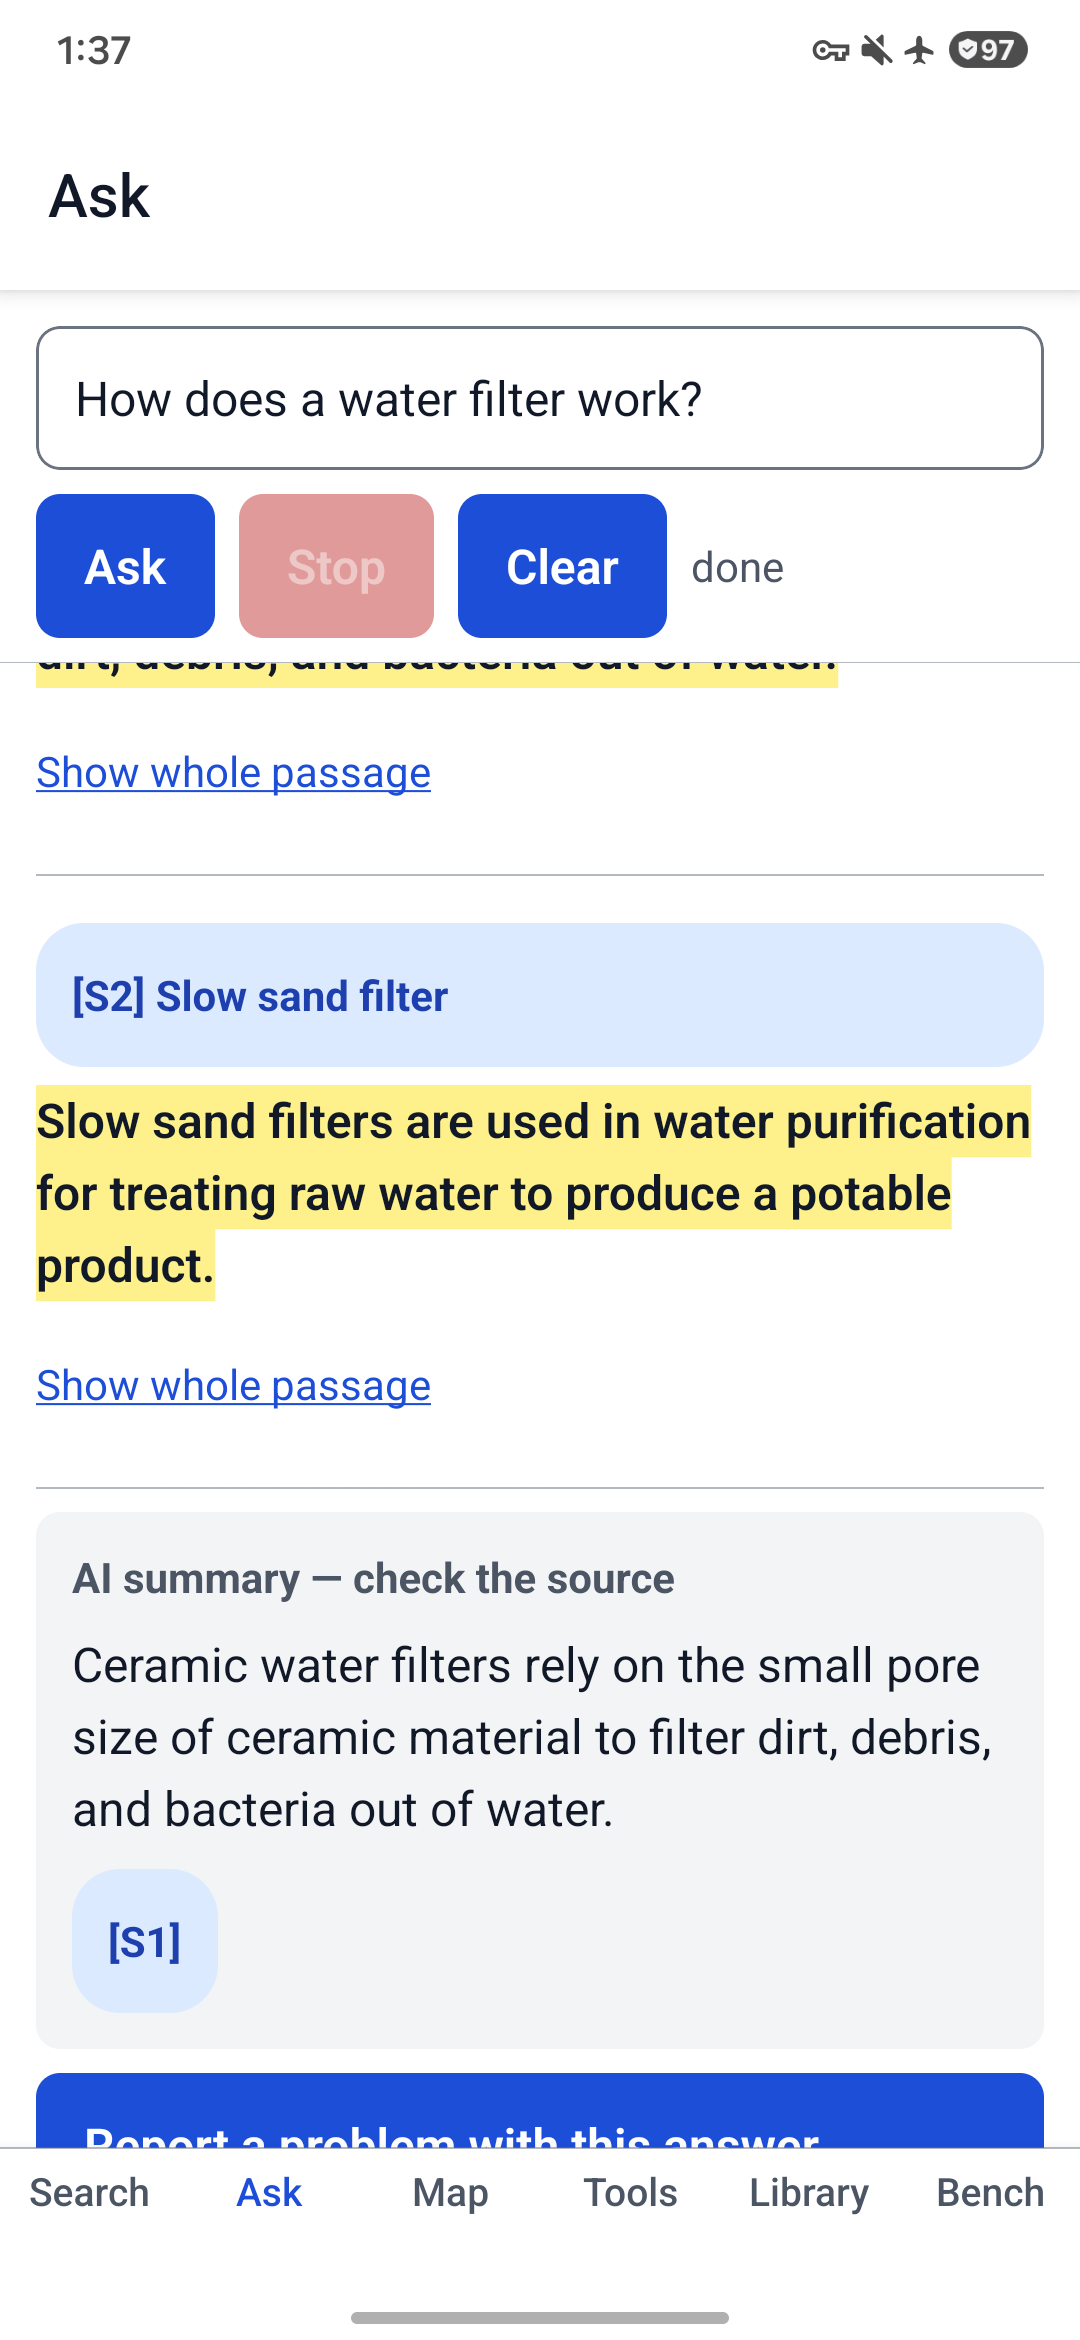
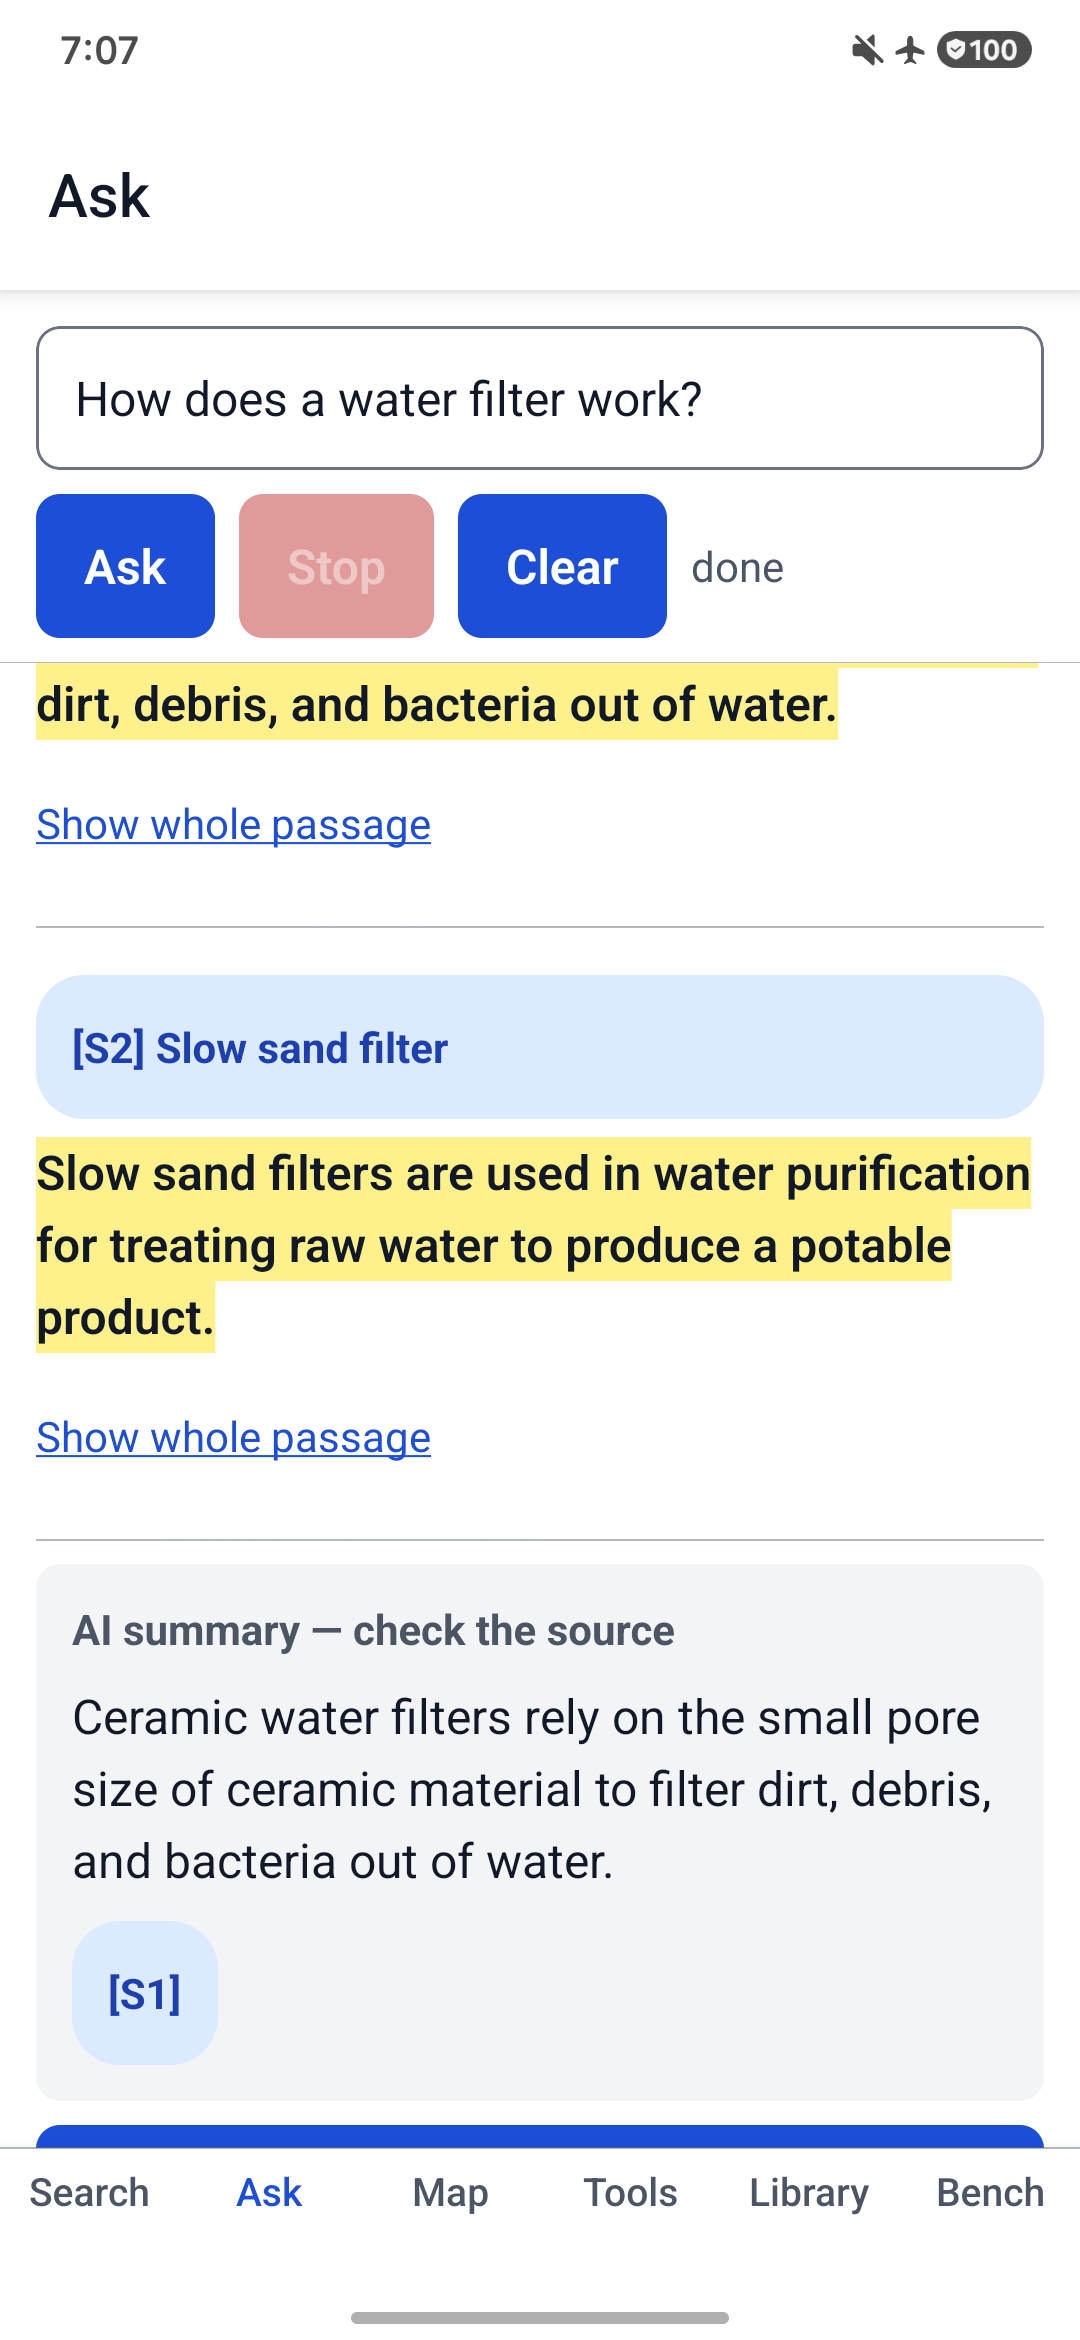
docs(store): part 3 closed — clean S23 Maestro 8/8, Ask screenshot without VPN
- store-readiness: clean run on 2026-10-16 (8/8, 0 blocked requests, 0 bytes,
  SMS 1, CHOOSER 1) and the two flow fixes; 4_ask_sources retaken with the
  phone's VPN off.
- PROGRESS.md: project status file.

diff --git a/docs/store-readiness.md b/docs/store-readiness.md
@@ -23,6 +23,7 @@ in airplane mode 8/8 (problem report CHOOSER intent 1, SMS hand-off 1, 0 bytes o
 and produces the same bytes as `android-repro` (§6); published builds use the JDK 21 toolchain
 (`docs/architecture.md`, "Android JDK"); the Ask store screenshot comes from the S23 with the model; every
 SKEPI device script takes a shared per-device lock (open items, §5). Verification at `36d712d`: `pnpm verify` 46/46; Rust `fmt`, `clippy -D warnings`, `test` (local and CI); `android-repro` and `fdroid-build` green with the same SHA-256 `36599399…0069` (run 38319568319). Maestro on the S23 (signed preview build, airplane mode, under the device lock): every one of the 8 flows passed on this build, but no single run was clean: run 1 7/8 (blackout) and blackout alone then green, run 2 6/8 (ask-t1, blackout); each failure screenshot shows the Selis app, which another session brought to the foreground on the shared phone while SKEPI held the lock. Both runs: 0 bytes over real interfaces, 0 blocked WebView requests, problem-report CHOOSER 1, SMS hand-off 1.
+**Clean run (2026-10-16, same preview build, flows at `794f997`):** Maestro on the S23 in airplane mode under the device lock, `run-e2e.ps1 -MockLocation`: 8/8 in one run, 0 blocked WebView requests, 0 bytes over real interfaces, SMS hand-off 1, problem-report CHOOSER 1. Two flow fixes on the way: the persisted T1-simulation switch, left on by the interrupted ask-t1 run of 2026-10-13, made ask-en wait for an automatic AI summary that T1 does not give (ask-en and store-screenshot-ask now turn it off first); ask-t1 could stop scrolling with "Summarise with AI" under the tab bar (now `centerElement`). Earlier runs that day were cut short by the phone dropping off USB (three times) and by a manual tap on the phone, not by app failures.
 
 Status legend: **ready** · **blocked** (a repo change is needed first) · **owner** (needs an owner
 decision or account action).
@@ -167,7 +168,7 @@ comparison and `llvm-objcopy`/`llvm-readelf` from NDK 27.3 (diffoscope is not av
 ## 5. Still to prepare
 
 - Graphics: `fastlane/metadata/android/en-US/images/icon.png` (512×512) and `featureGraphic.png`
-  (1024×500). **Phone screenshots: done** (`fastlane/metadata/android/en-US/images/phoneScreenshots/`: `1_home`, `2_search`, `3_article`, `5_map`, `6_tools` at 1080×2400 from `e2e/store-screenshots.yaml` on the `skepi-host` emulator (preview build installed from the AAB, airplane mode, demo-mode status bar); `4_ask_sources` at 1080×2340 from `e2e/store-screenshot-ask.yaml` on the S23 (release build, airplane mode, "How does a water filter work?": a Layer 1 source excerpt, then the labelled AI summary with its citation chip; Samsung ignores the demo-mode status bar, so the phone's own status icons show). Card titles show "Draft", no card steps anywhere.)
+  (1024×500). **Phone screenshots: done** (`fastlane/metadata/android/en-US/images/phoneScreenshots/`: `1_home`, `2_search`, `3_article`, `5_map`, `6_tools` at 1080×2400 from `e2e/store-screenshots.yaml` on the `skepi-host` emulator (preview build installed from the AAB, airplane mode, demo-mode status bar); `4_ask_sources` at 1080×2340 from `e2e/store-screenshot-ask.yaml` on the S23 (release build, airplane mode, "How does a water filter work?": a Layer 1 source excerpt, then the labelled AI summary with its citation chip; Samsung ignores the demo-mode status bar, so the phone's own status icons show; retaken 2026-10-16 with the phone's VPN off, so only the mute, airplane and battery icons show). Card titles show "Draft", no card steps anywhere.)
 - Privacy policy public URL (§2, Google Play; v1).
 - **AAB: done** (§2, Google Play).
 - A first test of the recipe on the F-Droid buildserver (§6).

diff --git a/PROGRESS.md b/PROGRESS.md
@@ -1,0 +1,10 @@
+**Current:** Store readiness (Android, F-Droid first) — part 3 done; no tag, release or fdroiddata request yet
+**Next step:** owner: decide on the tag/release and the fdroiddata merge request; graphics (icon 512×512, featureGraphic 1024×500) still open (`docs/store-readiness.md` §5)
+**Last session:** 2026-10-16 — clean Maestro 8/8 on the S23 (airplane mode, device lock), Ask store screenshot retaken with the VPN off; two E2E flow fixes (`794f997`)
+
+## Store readiness part 3 (closed 2026-10-16)
+
+- Done: `fdroid build` in CI gives the same bytes as `android-repro`; JDK 21 toolchain for published builds; per-device lock in every SKEPI device script; Ask store screenshot from the S23 with the model.
+- Verified: `pnpm verify` 46/46, Rust fmt/clippy/test, `android-repro` + `fdroid-build` same SHA-256 (at `36d712d`); Maestro on the S23 8/8 in one run (2026-10-16): 0 blocked WebView requests, 0 bytes over real interfaces, SMS hand-off 1, problem-report CHOOSER 1.
+- Open risks: the S23 dropped off USB three times in 40 minutes on 2026-10-16 (cable or port); NordVPN on the S23 reconnects by itself (auto-connect); Selis does not take the device lock yet.
+- Device testing: S23 only (owner's phone); untethered energy run still owner-only.
